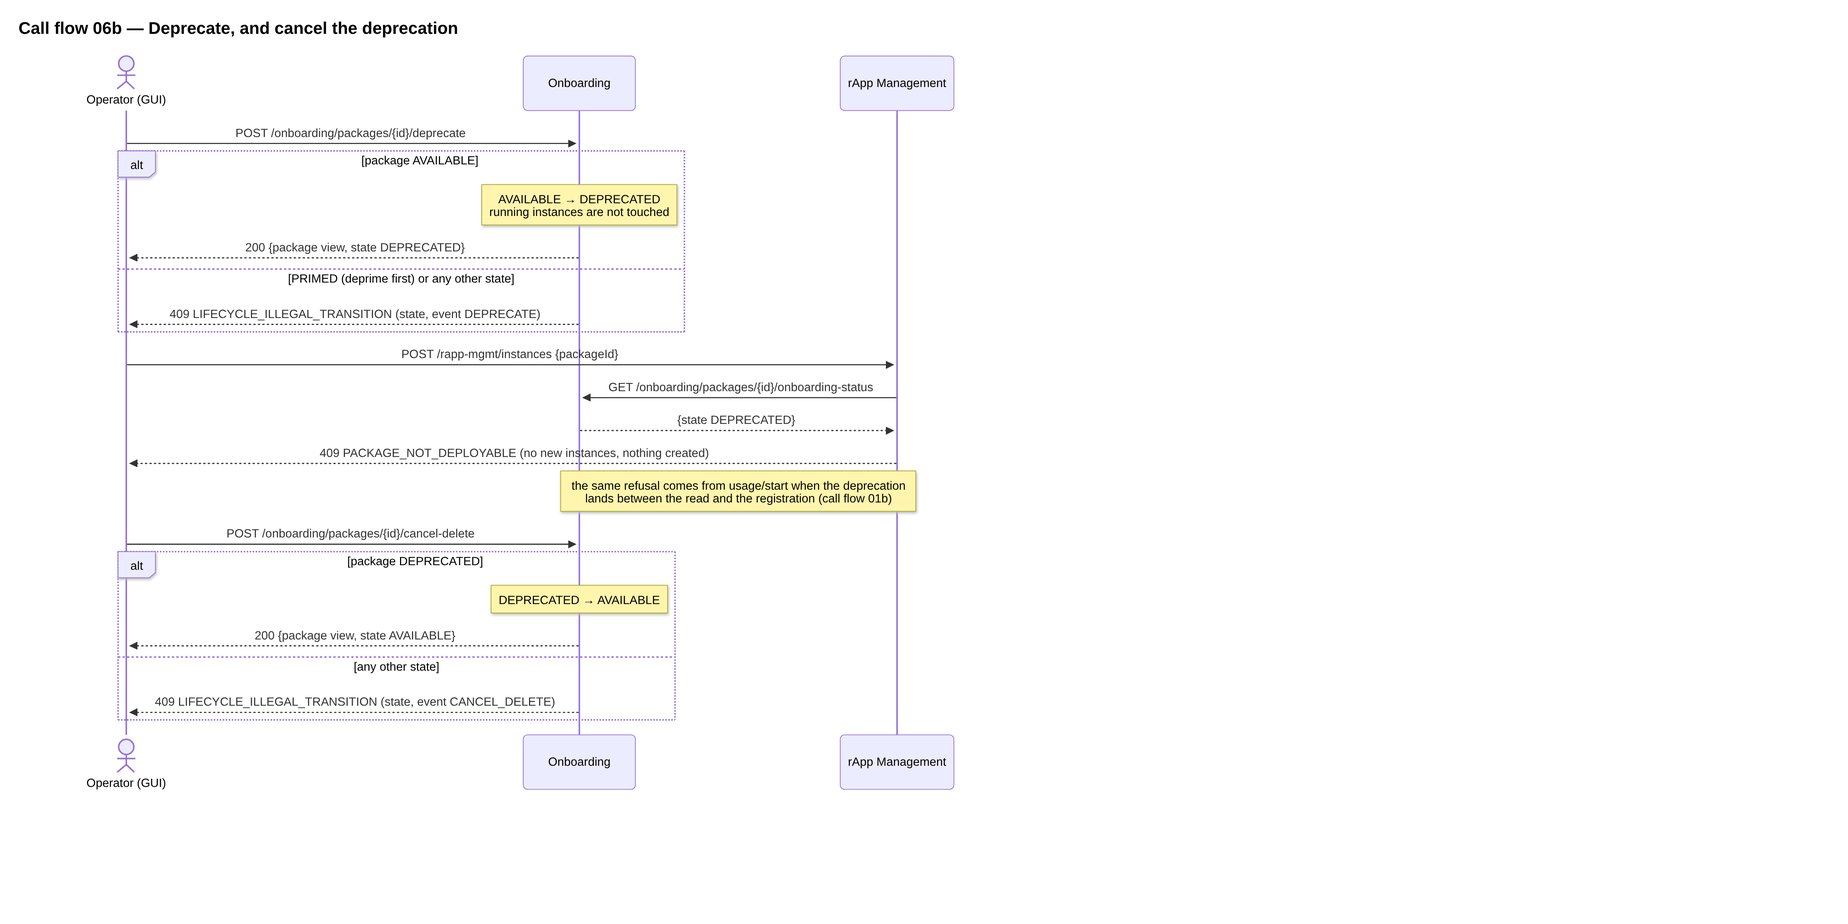
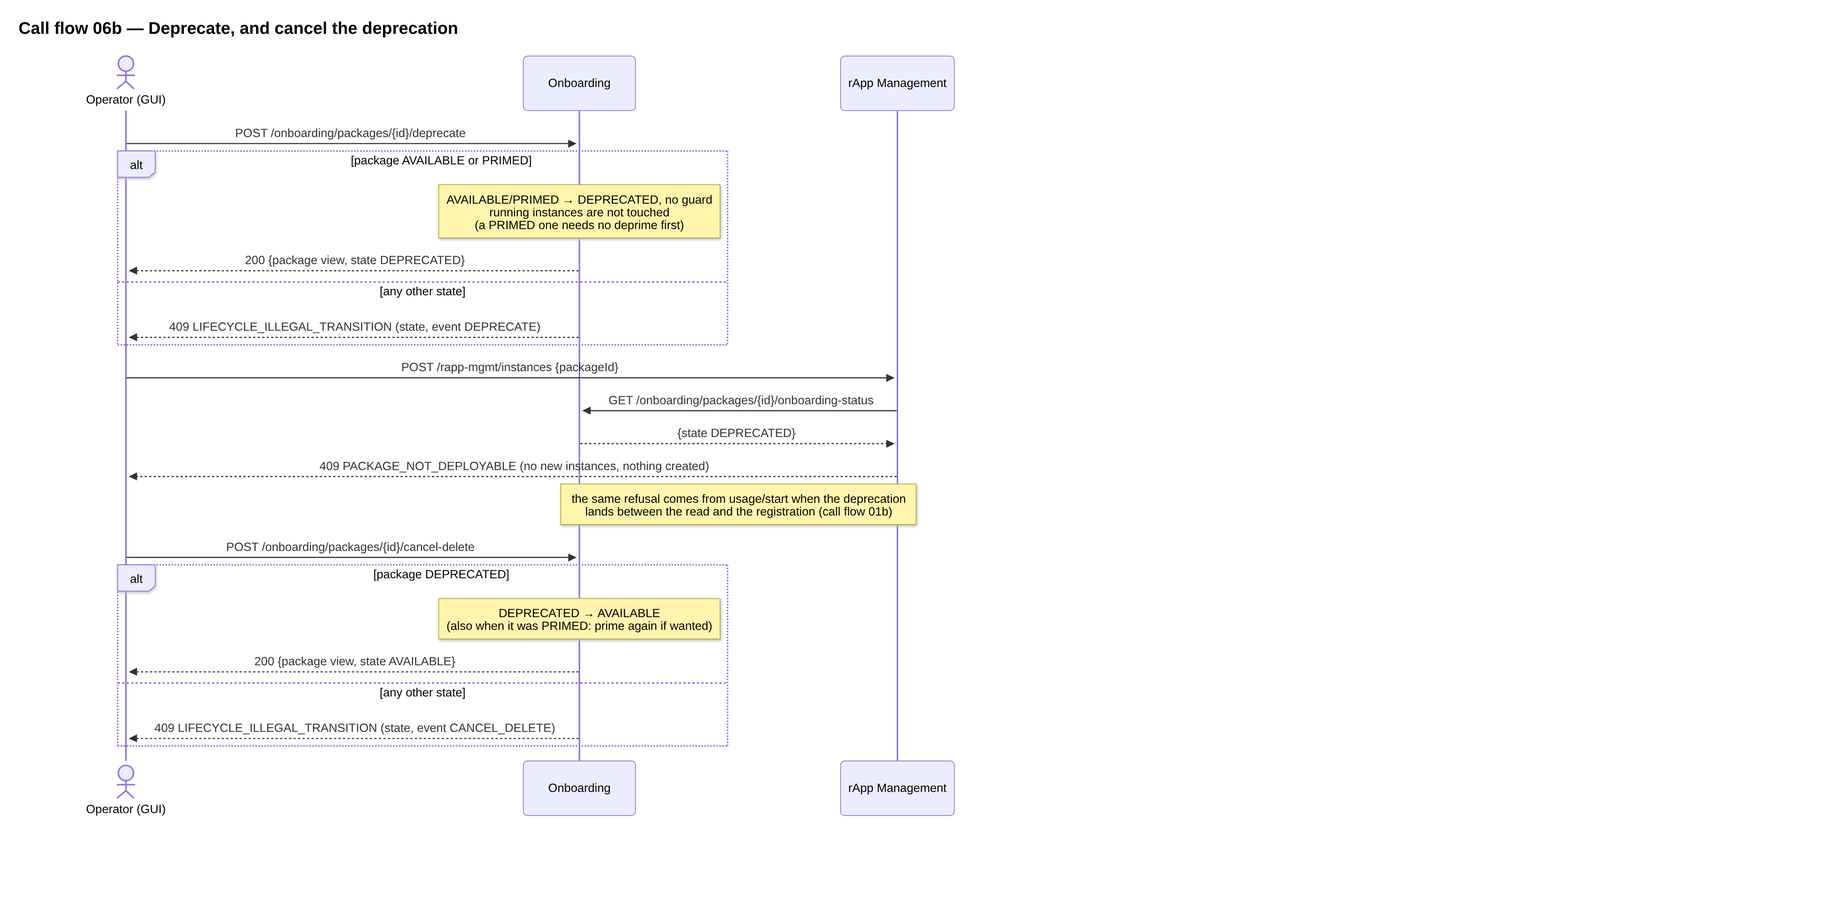
Package lifecycle: a PRIMED package can be deprecated (DOC-CF-1.2 review)
Depriming is refused while instances run, so a primed package in use had no
way to stop new instances. PRIMED -> DEPRECATED has no guard; cancel-delete
returns AVAILABLE. The console offers Deprecate on a PRIMED package; flow 06b,
README, HISTORY and CHANGELOG updated, 06b image redrawn.

Claude-Session: https://claude.ai/code/session_01Q99JvKMeSSktNE2dzQEuGf

diff --git a/smo/gui/src/lib/flows.test.ts b/smo/gui/src/lib/flows.test.ts
@@ -115,12 +115,13 @@ describe("flow 06 — the cascade-delete guard", () => {
   it("a FAILED package skips straight to delete", () => {
     expect(statuses(flow06(pkg("FAILED"), [], 0))).toEqual(["warn", "done", "done", "done", "done", "current"]);
   });
-  // Priming is optional, and a primed package is told to deprime before it is deprecated.
-  it("priming is optional, and a primed package must be deprimed before it is deprecated", () => {
+  // Priming is optional, and a primed package can be deprecated as it is (call flow 06b): deprecate is the next step, with no "deprime first".
+  it("priming is optional, and a primed package can be deprecated without depriming", () => {
     expect(flow06(pkg("AVAILABLE"), [], 0)[1].detail).toBe("optional — not primed");
     const primed = flow06(pkg("PRIMED"), [], 1);
     expect(primed[1].detail).toBe("PRIMED");
-    expect(primed[3]).toMatchObject({ status: "current", detail: "deprime first (refused while usage is active)" });
+    expect(primed[3]).toMatchObject({ status: "current" });
+    expect(primed[3].detail).toBeUndefined();
   });
 });
 

diff --git a/smo/gui/src/lib/flows.ts b/smo/gui/src/lib/flows.ts
@@ -226,7 +226,7 @@ export function flow06(pkg: Package | undefined, usage: PackageUsage[], instance
     step("refuse", failed ? t("flows.lib.f06.refused") : t("flows.lib.f06.usable"), "rApp Mgmt",
       failed ? true : pkg.state !== "ONBOARDING", failed ? undefined : t("flows.lib.f06.instances", { n: instanceCount })),
     step("deprecate", t("flows.lib.f06.deprecate"), "Operator → Onboarding",
-      failed || ["DEPRECATED", "DELETING"].includes(pkg.state), primed ? t("flows.lib.f06.deprimeFirst") : undefined),
+      failed || ["DEPRECATED", "DELETING"].includes(pkg.state)),
     step("guard", t("flows.lib.f06.guard"), "Onboarding",
       // active usage is a hard stop for delete (and deprime): shown as the
       // failing step so the delete step reads as blocked, not next

diff --git a/smo/gui/src/lib/domain.ts b/smo/gui/src/lib/domain.ts
@@ -164,7 +164,7 @@ export function packageActions(state: string, t: Translator = ENGLISH): { action
   const del = { action: "delete" as const, label: t("domain.action.delete") };
   switch (state) {
     case "AVAILABLE": return [{ action: "prime", label: t("domain.action.prime") }, { action: "deprecate", label: t("domain.action.deprecate") }, del];
-    case "PRIMED": return [{ action: "deprime", label: t("domain.action.deprime") }];
+    case "PRIMED": return [{ action: "deprime", label: t("domain.action.deprime") }, { action: "deprecate", label: t("domain.action.deprecate") }];
     case "DEPRECATED": return [{ action: "cancel-delete", label: t("domain.action.restore") }, del];
     case "FAILED": return [del];
     default: return [];

diff --git a/smo/gui/src/i18n/de/lib.ts b/smo/gui/src/i18n/de/lib.ts
@@ -79,7 +79,6 @@ export const lib: Partial<Record<MessageKey, string>> = {
   "flows.lib.f06.usable": "Paket nutzbar: Instanzen dürfen darauf verweisen",
   "flows.lib.f06.instances": "{n} Instanz(en)",
   "flows.lib.f06.deprecate": "Abkündigen (AVAILABLE → DEPRECATED)",
-  "flows.lib.f06.deprimeFirst": "zuerst entprimen (abgewiesen, solange eine Nutzung aktiv ist)",
   "flows.lib.f06.guard": "Schutz vor kaskadierendem Löschen: keine aktiven Nutzungsregistrierungen",
   "flows.lib.f06.usage": "{active} aktiv / {n} Nutzungsregistrierung(en)",
   "flows.lib.f06.usage.blocked": "{active} aktiv / {n} Nutzungsregistrierung(en) — Löschen ist blockiert",

diff --git a/smo/gui/src/lib/domain.test.ts b/smo/gui/src/lib/domain.test.ts
@@ -48,7 +48,7 @@ describe("package lifecycle", () => {
   // A package offers only the lifecycle calls the onboarding state machine accepts in its state.
   it("offers only the onboarding FSM's legal calls", () => {
     expect(packageActions("AVAILABLE").map((a) => a.action)).toEqual(["prime", "deprecate", "delete"]);
-    expect(packageActions("PRIMED").map((a) => a.action)).toEqual(["deprime"]);
+    expect(packageActions("PRIMED").map((a) => a.action)).toEqual(["deprime", "deprecate"]);
     expect(packageActions("DEPRECATED").map((a) => a.action)).toEqual(["cancel-delete", "delete"]);
     expect(packageActions("ONBOARDING")).toEqual([]);
   });

diff --git a/smo/gui/src/i18n/en/lib.ts b/smo/gui/src/i18n/en/lib.ts
@@ -86,7 +86,6 @@ export const lib = {
   "flows.lib.f06.usable": "Package usable: instances may reference it",
   "flows.lib.f06.instances": "{n} instance(s)",
   "flows.lib.f06.deprecate": "Deprecate (AVAILABLE → DEPRECATED)",
-  "flows.lib.f06.deprimeFirst": "deprime first (refused while usage is active)",
   "flows.lib.f06.guard": "Cascade-delete guard: no active usage registrations",
   "flows.lib.f06.usage": "{active} active / {n} usage registration(s)",
   "flows.lib.f06.usage.blocked": "{active} active / {n} usage registration(s) — delete is blocked",

diff --git a/smo/onboarding/tests/test_main.py b/smo/onboarding/tests/test_main.py
@@ -770,8 +770,8 @@ def _set_state(db_session_factory, package_id, state):
 
 
 @pytest.mark.parametrize("route,state,event", [
-    ("deprecate", "PRIMED", "DEPRECATE"),
     ("deprecate", "DEPRECATED", "DEPRECATE"),
+    ("deprecate", "DELETING", "DEPRECATE"),
     ("prime", "DEPRECATED", "PRIME"),
     ("prime", "PRIMED", "PRIME"),
     ("deprime", "AVAILABLE", "DEPRIME"),
@@ -1296,3 +1296,19 @@ def test_release_is_503_when_rapp_management_answers_an_error(client, monkeypatc
 
     assert resp.status_code == 503 and resp.json()["detail"]["title"] == "ENDPOINT_UNREACHABLE"
     assert client.get(f"/packages/{package_id}/usage").json()["items"][0]["active"] is True
+
+
+def test_a_primed_package_with_a_running_instance_can_be_deprecated(client, monkeypatch):
+    """Call flow 06b: a PRIMED package is deprecated without depriming, even while an instance holds it (deprime would be refused); the registration
+    stays open, a new registration is refused, and cancel-delete brings the package back AVAILABLE."""
+    package_id = _make_available_package(client, monkeypatch)
+    client.post(f"/packages/{package_id}/prime")
+    client.post(f"/packages/{package_id}/usage/start", params={"consumer_id": "instance-1"})
+    assert client.post(f"/packages/{package_id}/deprime").status_code == 409
+
+    resp = client.post(f"/packages/{package_id}/deprecate")
+
+    assert resp.status_code == 200 and resp.json()["state"] == "DEPRECATED"
+    assert client.get(f"/packages/{package_id}/usage").json()["items"][0]["active"] is True
+    assert client.post(f"/packages/{package_id}/usage/start", params={"consumer_id": "instance-2"}).json()["detail"]["title"] == "PACKAGE_NOT_DEPLOYABLE"
+    assert client.post(f"/packages/{package_id}/cancel-delete").json()["state"] == "AVAILABLE"

diff --git a/smo/onboarding/app/statemachine.py b/smo/onboarding/app/statemachine.py
@@ -100,7 +100,7 @@ def _no_active_instances(db: Session, package: ApplicationPackage) -> bool:
 def build_onboarding_fsm() -> StateMachine[PackageState, PackageEvent]:
     """Builds the package transition table (README section 2.3); `ONBOARDING_FSM` below is the one instance every route uses.
 
-    Edges: ONBOARDING -> AVAILABLE or FAILED; AVAILABLE -> PRIMING -> PRIMED; PRIMED -> DEPRIMING (guarded) -> AVAILABLE; AVAILABLE -> DEPRECATED -> AVAILABLE (cancel);
+    Edges: ONBOARDING -> AVAILABLE or FAILED; AVAILABLE -> PRIMING -> PRIMED; PRIMED -> DEPRIMING (guarded) -> AVAILABLE; AVAILABLE or PRIMED -> DEPRECATED -> AVAILABLE (cancel);
     AVAILABLE or DEPRECATED -> DELETING (guarded). Every other (state, event) pair is illegal.
     """
     fsm: StateMachine[PackageState, PackageEvent] = StateMachine()
@@ -127,6 +127,10 @@ def build_onboarding_fsm() -> StateMachine[PackageState, PackageEvent]:
     )
     fsm.add(PackageState.DEPRIMING, PackageEvent.DEPRIME_COMPLETE, PackageState.AVAILABLE)
     fsm.add(PackageState.AVAILABLE, PackageEvent.DEPRECATE, PackageState.DEPRECATED)
+    # DOC-CF-1.2 (call flow 06b): a PRIMED package can be deprecated too, without depriming, which is refused while instances run: deprecation only stops
+    # new instances. No guard: running instances keep running. Priming provisions nothing in Phase 1, so DEPRECATED does not remember it: CANCEL_DELETE
+    # returns AVAILABLE (prime again if wanted), and DELETE from DEPRECATED needs no deprime first.
+    fsm.add(PackageState.PRIMED, PackageEvent.DEPRECATE, PackageState.DEPRECATED)
     fsm.add(PackageState.DEPRECATED, PackageEvent.CANCEL_DELETE, PackageState.AVAILABLE)
     fsm.add(
         PackageState.DEPRECATED,

diff --git a/smo/onboarding/tests/test_statemachine.py b/smo/onboarding/tests/test_statemachine.py
@@ -144,3 +144,15 @@ def test_delete_has_no_edge_from_primed(db):
     pkg = make_package(db, state=PackageState.PRIMED)
     with pytest.raises(IllegalTransition):
         ONBOARDING_FSM.fire(PackageState.PRIMED, PackageEvent.DELETE, db=db, package=pkg)
+
+
+def test_primed_package_can_be_deprecated_without_a_guard(db):
+    """DOC-CF-1.2: DEPRECATE has an edge from PRIMED with no guard, so an open usage registration does not block it; CANCEL_DELETE then returns AVAILABLE."""
+    pkg = make_package(db, state=PackageState.PRIMED)
+    db.add(PackageUsageRegistration(package_id=pkg.package_id, consumer_id="instance-1"))
+    db.flush()
+
+    state = ONBOARDING_FSM.fire(PackageState.PRIMED, PackageEvent.DEPRECATE, db=db, package=pkg)
+
+    assert state == PackageState.DEPRECATED
+    assert ONBOARDING_FSM.fire(state, PackageEvent.CANCEL_DELETE, db=db, package=pkg) == PackageState.AVAILABLE

diff --git a/smo/onboarding/app/main.py b/smo/onboarding/app/main.py
@@ -311,7 +311,7 @@ def query_packages(state: str | None = None, limit: int = PageLimit, offset: int
 
 @app.post("/packages/{package_id}/deprecate")
 def deprecate_package(package_id: uuid.UUID, db: Session = Depends(get_session)):
-    """AVAILABLE -> DEPRECATED; 409 LIFECYCLE_ILLEGAL_TRANSITION from any other state."""
+    """AVAILABLE or PRIMED -> DEPRECATED: no new instances, running ones are not touched; 409 LIFECYCLE_ILLEGAL_TRANSITION from any other state."""
     # Maintainer notes (not published). One FSM event, one commit; the guard-less edge, so the only refusal is the 409 from `_fire`.
     pkg = _get_package_or_404(db, package_id)
     pkg.state = _fire(db, pkg, PackageEvent.DEPRECATE)

diff --git a/smo/onboarding/README.md b/smo/onboarding/README.md
@@ -9,7 +9,7 @@
 | Depends on (over R1) | NFO (`POST /nfo/descriptors`, `DELETE /nfo/descriptors/{id}` on delete); rApp Management (`GET /rapp-mgmt/instances/{id}`, only to release an orphaned usage registration); the package location itself (plain HTTP GET, not over R1) |
 | Called by | rApp Management (`onboarding-status`, `usage/start`, `usage/stop`: the only writer of usage registrations); AIMgF (`onboarding-status`, for `aiCapabilities.runtimeProfiles`); GUI BFF (operator and admin actions, `usage/{id}/release` for an admin); operators |
 | Database tables | `application_package` (versioned), `artifact`, `package_usage_registration` |
-| Unit tests | 199 passed (`tests/`, SQLite, standalone) |
+| Unit tests | 201 passed (`tests/`, SQLite, standalone) |
 | Status | Done. Package signatures are verified against an operator-held trust store when one is configured (`PR-RAPP-1`; off by default, see 1.5, 2.6, 2.8) |
 
 ## 1. High-level design (HLD)
@@ -145,12 +145,12 @@ Security: the package location is fetched with a direct `httpx.get` (30 s timeou
 | `PRIMING` | `PRIME_COMPLETE` | `PRIMED` | fired in the same request as `PRIME` |
 | `PRIMED` | `DEPRIME` | `DEPRIMING` | guard `_no_active_instances`: no usage registration without `stopped_at` |
 | `DEPRIMING` | `DEPRIME_COMPLETE` | `AVAILABLE` | fired in the same request as `DEPRIME` |
-| `AVAILABLE` | `DEPRECATE` | `DEPRECATED` | |
-| `DEPRECATED` | `CANCEL_DELETE` | `AVAILABLE` | |
+| `AVAILABLE`, `PRIMED` | `DEPRECATE` | `DEPRECATED` | none: running instances keep running, only new ones are refused (call flow 06b) |
+| `DEPRECATED` | `CANCEL_DELETE` | `AVAILABLE` | also for a package deprecated from `PRIMED` (priming provisions nothing yet, so it is not remembered) |
 | `AVAILABLE`, `DEPRECATED` | `DELETE` | `DELETING` | guard `_no_blocking_dependents`: no child in `AVAILABLE` / `DEPRECATED`, no open usage |
 | `FAILED` | (direct delete) | row removed | handled by the route, not the FSM |
 
-`PRIMING` and `DEPRIMING` are never observable from outside. Forbidden: everything not in the table, for example `PRIMED → DEPRECATE` or `PRIMED → DELETE` (deprime first), `DEPRECATED → PRIME`, `AVAILABLE → DEPRIME`, any event from `FAILED` through the FSM, any event from `DELETING`. `models.PACKAGE_STATES` lists only five of the eight states and is not used by any code.
+`PRIMING` and `DEPRIMING` are never observable from outside. Forbidden: everything not in the table, for example `PRIMED → DELETE` (deprime, or deprecate, first), `DEPRECATED → PRIME`, `AVAILABLE → DEPRIME`, any event from `FAILED` through the FSM, any event from `DELETING`. `models.PACKAGE_STATES` lists only five of the eight states and is not used by any code.
 
 Event routes and refusals: an event with no edge from the current state gives `409 LIFECYCLE_ILLEGAL_TRANSITION` naming the state and the event. An event whose edge exists but whose guard refuses gives `409 PACKAGE_IN_USE` with the reason.
 
@@ -165,7 +165,7 @@ Event routes and refusals: an event with no edge from the current state gives `4
 | GET | `/packages/{id}/usage` | Paged `{registrationId, consumerId, stoppedAt, active}`: what blocks a delete | 404 |
 | POST | `/packages/{id}/prime` | `AVAILABLE → PRIMED` | 409 `LIFECYCLE_ILLEGAL_TRANSITION` |
 | POST | `/packages/{id}/deprime` | `PRIMED → AVAILABLE` | 409 `PACKAGE_IN_USE` (open usage); 409 `LIFECYCLE_ILLEGAL_TRANSITION` |
-| POST | `/packages/{id}/deprecate` | `AVAILABLE → DEPRECATED` | 409 `LIFECYCLE_ILLEGAL_TRANSITION` |
+| POST | `/packages/{id}/deprecate` | `AVAILABLE` / `PRIMED → DEPRECATED` | 409 `LIFECYCLE_ILLEGAL_TRANSITION` |
 | POST | `/packages/{id}/cancel-delete` | `DEPRECATED → AVAILABLE` | 409 `LIFECYCLE_ILLEGAL_TRANSITION` |
 | DELETE | `/packages/{id}` | `AVAILABLE` / `DEPRECATED → DELETING` (returns the view, `nfDeploymentDescriptorId` cleared); `FAILED` → row, artifacts and stopped registrations deleted, `{"status": "deleted"}`. Either way the NFO descriptor is deleted first (`DELETE /nfo/descriptors/{id}`) | 409 `PACKAGE_IN_USE` (child or open usage, NFO not called; or NFO says a deployment still uses the descriptor); 503 `ENDPOINT_UNREACHABLE` (NFO failed); 409 `LIFECYCLE_ILLEGAL_TRANSITION` (any other state) |
 | POST | `/packages/{id}/usage/start?consumer_id=` | Open a usage → `{registrationId}`. rApp Management's route: the GUI BFF has no rule for it | 404; 409 `PACKAGE_NOT_DEPLOYABLE` (package not `AVAILABLE` / `PRIMED`) |
@@ -252,10 +252,10 @@ cd smo/onboarding && PYTHONPATH=.:../shared python -m pytest tests/ -q
 | | Illegal events are 409 naming state and event; delete without an edge | 9 |
 | | Unknown package / registration is 404 on every route | 10 |
 | | Usage: stop idempotent, listing shows what blocks a delete | 2 |
-| | Call flow 06 (DOC-CF-1.2): delete deletes the NFO descriptor and clears it, NFO refusing (409, 500) leaves the package, a guard refusal never calls NFO, a FAILED delete takes its descriptor and stopped registrations, usage/start refuses 4 non-deployable states and takes a PRIMED one, an unexpected onboarding error ends FAILED and deletable, NFO unreachable on delete (503), release (instance gone or UNDEPLOYED; refused for 4 live states; 503 for no answer and for an error answer; a non-instance consumer without asking; 404) | 22 |
+| | Call flow 06 (DOC-CF-1.2): delete deletes the NFO descriptor and clears it, NFO refusing (409, 500) leaves the package, a guard refusal never calls NFO, a FAILED delete takes its descriptor and stopped registrations, usage/start refuses 4 non-deployable states and takes a PRIMED one, a PRIMED package with a running instance deprecated (and restored AVAILABLE), an unexpected onboarding error ends FAILED and deletable, NFO unreachable on delete (503), release (instance gone or UNDEPLOYED; refused for 4 live states; 503 for no answer and for an error answer; a non-instance consumer without asking; 404) | 23 |
 | | Package list and state filter, identity fields for the GUI, health | 3 |
 | | Package row committed before the NFO call | 1 |
-| `tests/test_statemachine.py` | The FSM alone: success and failure onboarding, deprecate round trip, delete guards (child, usage, after stop), no transition from `FAILED`, prime / deprime round trip and guard, no `ONBOARDING → PRIME`, no `PRIMED → DELETE` | 11 |
+| `tests/test_statemachine.py` | The FSM alone: success and failure onboarding, deprecate round trip, delete guards (child, usage, after stop), no transition from `FAILED`, prime / deprime round trip and guard, no `ONBOARDING → PRIME`, no `PRIMED → DELETE`, `PRIMED → DEPRECATED` with no guard | 12 |
 | `tests/test_business_metrics.py` | `smo_rapp_packages` counts packages by state with every state of `PackageState` present | 1 |
 | `tests/test_signing.py` | `PR-RAPP-1` on the real route, real CSAR bytes, a trust store directory: nothing set (signed and unsigned package both onboard, `signatureVerified` true); the policy flag alone refuses every package and says why; a trusted publisher; unsigned accepted but unverified, refused when required; tampered, added and removed file each refused whatever the policy; unknown publisher; wrong key under a trusted key id; digest list without a signature; a refused package does not block the next attempt; a key added to the store is seen without a restart; a missing or empty store fails the package with a reason that does not show the path; the four committed samples verify against the demo publisher | 20 |
 | `tests/test_package_validation.py` | The validation module alone: the result of a good package, a `TOSCA.meta` without `Entry-Definitions:` (a validation failure, not a `StopIteration`), the `.csar` name check An unsigned zip bomb (60 MiB from a few kilobytes), too many entries, a file or a total over its limit, a read over the limit, each of the six files the parse reads, the probe for signing entries (`SEC-15.17`) | 14 |

diff --git a/smo/CHANGELOG.md b/smo/CHANGELOG.md
@@ -12,7 +12,7 @@ Entries are written for an operator: what changed in behaviour, configuration or
 
 ### Changed
 
-- **Package lifecycle: the usage guard holds, and delete cleans up at NFO (call flow 06, rewritten).** Deprime and delete are refused while an rApp instance holds the package; that hold (a *usage registration*) is now opened by rApp Management before anything else when it creates an instance, and **CreateInstance fails** (409 `PACKAGE_NOT_DEPLOYABLE`, or 502/503 when Onboarding cannot open it) instead of creating an instance the guard cannot see. The console can no longer register or stop usage by hand: an admin can **Release** a registration whose instance is gone or `UNDEPLOYED` (`POST /onboarding/packages/{id}/usage/{rid}/release`; refused with 409 `PACKAGE_IN_USE` while the instance exists). Deleting a package now deletes its NF deployment descriptor at NFO (new `DELETE /nfo/descriptors/{id}`); while a deployment still uses it the delete is refused and the package is unchanged. An error of any kind during onboarding now ends the package `FAILED` (it could stay `ONBOARDING`, undeletable). **Error codes renamed:** a guard refusal is `PACKAGE_IN_USE` (was `SERVICE_NAME_CONFLICT`), a package that cannot be deployed is `PACKAGE_NOT_DEPLOYABLE` (was `MODEL_NOT_CERTIFIED`); same HTTP status, a client matching on the title must change. `usage/start` refuses a package that is not `AVAILABLE` or `PRIMED`. `docs/call-flows/06-package-lifecycle.md` is four diagrams (prime and deprime, deprecate, delete and release, a failed package).
+- **Package lifecycle: the usage guard holds, and delete cleans up at NFO (call flow 06, rewritten).** Deprime and delete are refused while an rApp instance holds the package; that hold (a *usage registration*) is now opened by rApp Management before anything else when it creates an instance, and **CreateInstance fails** (409 `PACKAGE_NOT_DEPLOYABLE`, or 502/503 when Onboarding cannot open it) instead of creating an instance the guard cannot see. The console can no longer register or stop usage by hand: an admin can **Release** a registration whose instance is gone or `UNDEPLOYED` (`POST /onboarding/packages/{id}/usage/{rid}/release`; refused with 409 `PACKAGE_IN_USE` while the instance exists). Deleting a package now deletes its NF deployment descriptor at NFO (new `DELETE /nfo/descriptors/{id}`); while a deployment still uses it the delete is refused and the package is unchanged. An error of any kind during onboarding now ends the package `FAILED` (it could stay `ONBOARDING`, undeletable). **Error codes renamed:** a guard refusal is `PACKAGE_IN_USE` (was `SERVICE_NAME_CONFLICT`), a package that cannot be deployed is `PACKAGE_NOT_DEPLOYABLE` (was `MODEL_NOT_CERTIFIED`); same HTTP status, a client matching on the title must change. `usage/start` refuses a package that is not `AVAILABLE` or `PRIMED`. **A `PRIMED` package can now be deprecated** without depriming first (which is refused while its instances run); cancel-delete brings it back `AVAILABLE`. `docs/call-flows/06-package-lifecycle.md` is four diagrams (prime and deprime, deprecate, delete and release, a failed package).
 - **The Python SDK and the console register feature groups with `tokenRef` (`SEC-15.2b`).** `create_feature_group` takes `token_ref`, the name of a secret the AIMgF service resolves itself (`AIMGF_FEATURE_GROUP_TOKEN_<NAME>`, `docs/SECRETS.md`); `token` still works for now and raises a `DeprecationWarning`, and exactly one of the two must be given. The console's feature-group form asks for a secret reference name instead of a token, and its table shows the reference (or that an old clear-text token is set), never a token. A group registered earlier keeps its clear-text token in the database until it is registered again with a reference; the server still accepts `token`, which is dropped in the next minor release (see Deprecated, 0.8.0).
 - CI pulls the third-party images from the repository's GHCR mirror (`docs/MIRROR.md`) instead of Docker Hub, to stop `toomanyrequests` failures when many jobs run at once. **CI only: nothing changes for an operator.** `docker-compose.yml`, the chart, the Dockerfiles and the GitOps overlays still name the upstream images, and every pull keeps its pinned digest. Each job starts with a step (`scripts/ci_mirror.py setup`) that checks the mirror and uses it per image; an image that does not answer is pulled from its upstream registry with a warning, and the repository variable `SMO_IMAGE_MIRROR=off` switches the mirror off in every job. The release workflow does not use the mirror. The Postgres of the `migration-postgres` job is started by a step instead of a `services:` container so that it can use it.
 - The Tempo, Loki, Fluent Bit and Grafana images of the `tracing` and `logging` profiles (`docker-compose.yml`) and of the chart's `observability.*` (`values.yaml`) are now pinned by digest (`name:tag@sha256:...`). The versions are the same (Tempo 2.10.8, Loki 3.7.8, Fluent Bit 5.1.3, Grafana 13.2.3); nothing changes for an operator who does not override them. If you override one of these images, pin yours the same way. CI now also pins Keycloak (the GUI sign-in test) and the kind node image (`kindest/node:v1.37.0`) by digest (`docs/MIRROR.md`, `OPS-12.4`).
